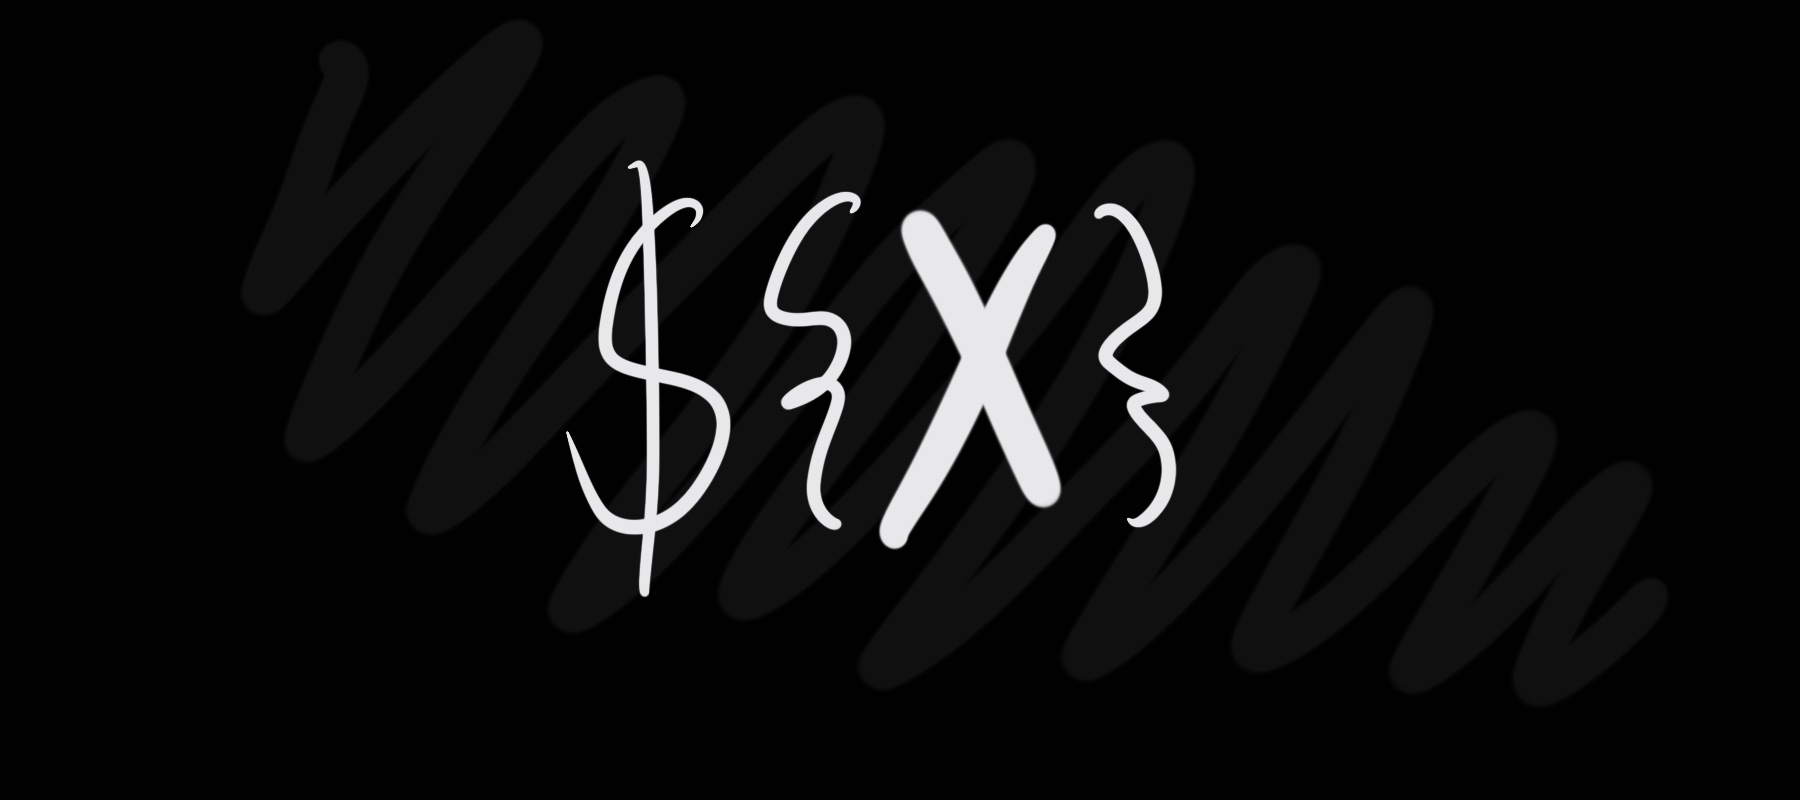
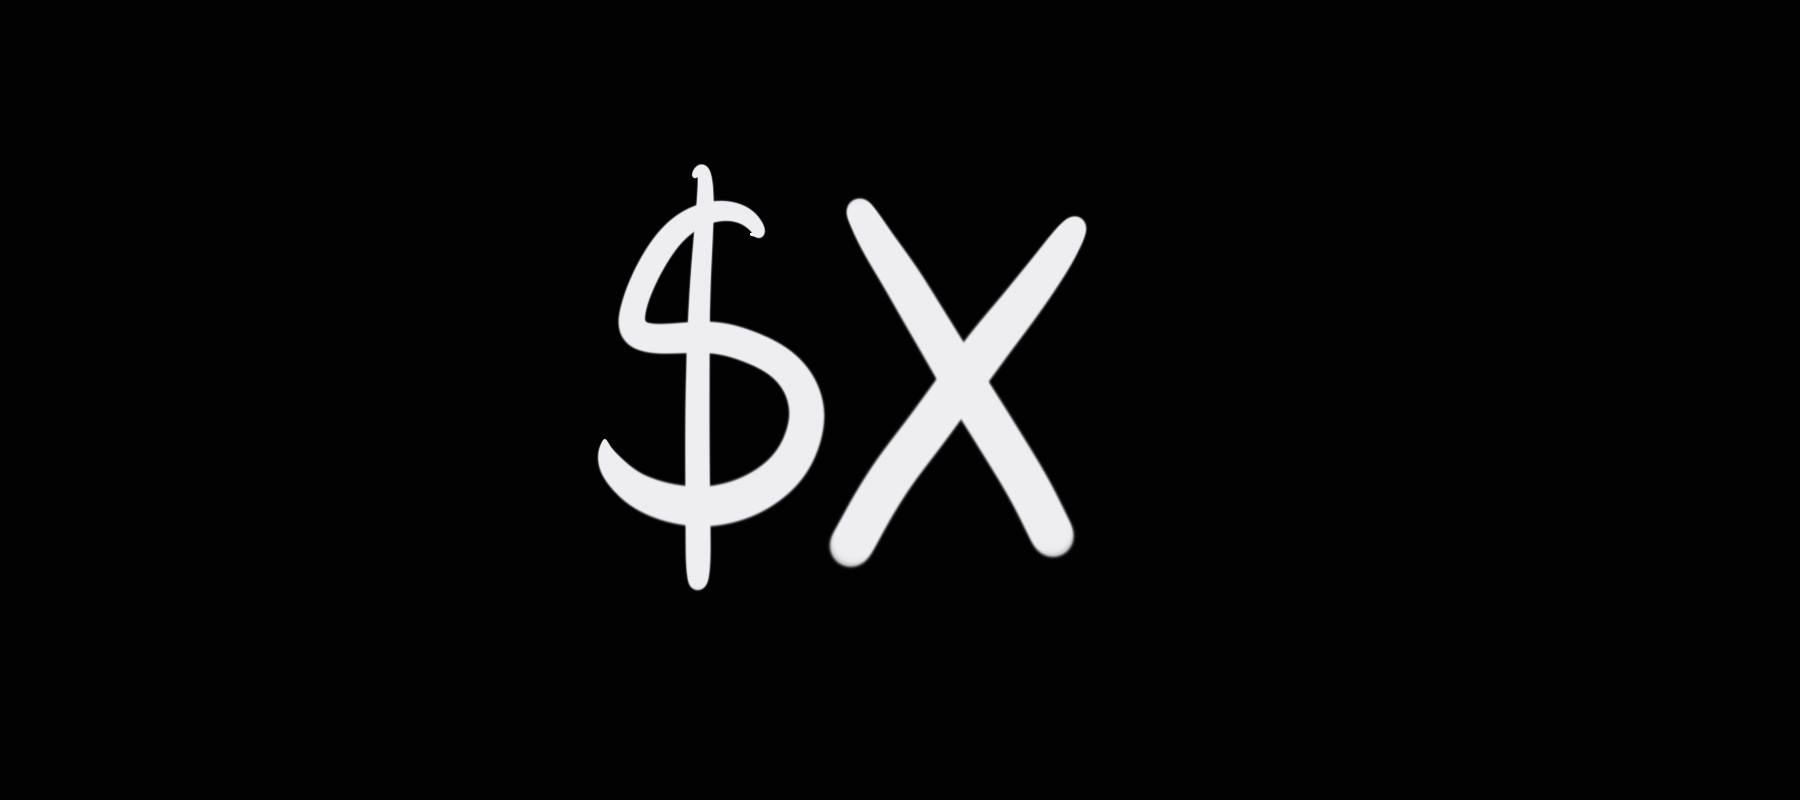
change image cover

Changed region(s): [[0.3111, 0.1875, 0.6533, 0.75], [0.6222, 0.4688, 0.6533, 0.6562]]

diff --git a/_posts/2021-01-19-special-syntax-x-jasperreports.md b/_posts/2021-01-19-special-syntax-x-jasperreports.md
@@ -1,6 +1,6 @@
 ---
 layout: post
-title: "$X{} กับเงื่อนไข IN หรือ NOTIN ใน JasperReports"
+title: "$X กับเงื่อนไข IN หรือ NOTIN ใน JasperReports"
 categories: [Tutorial, JasperReports]
 tags: [Report, Java, SQL]
 image: assets/images/posts/special-syntax-x-jasperreports/cover.jpg
